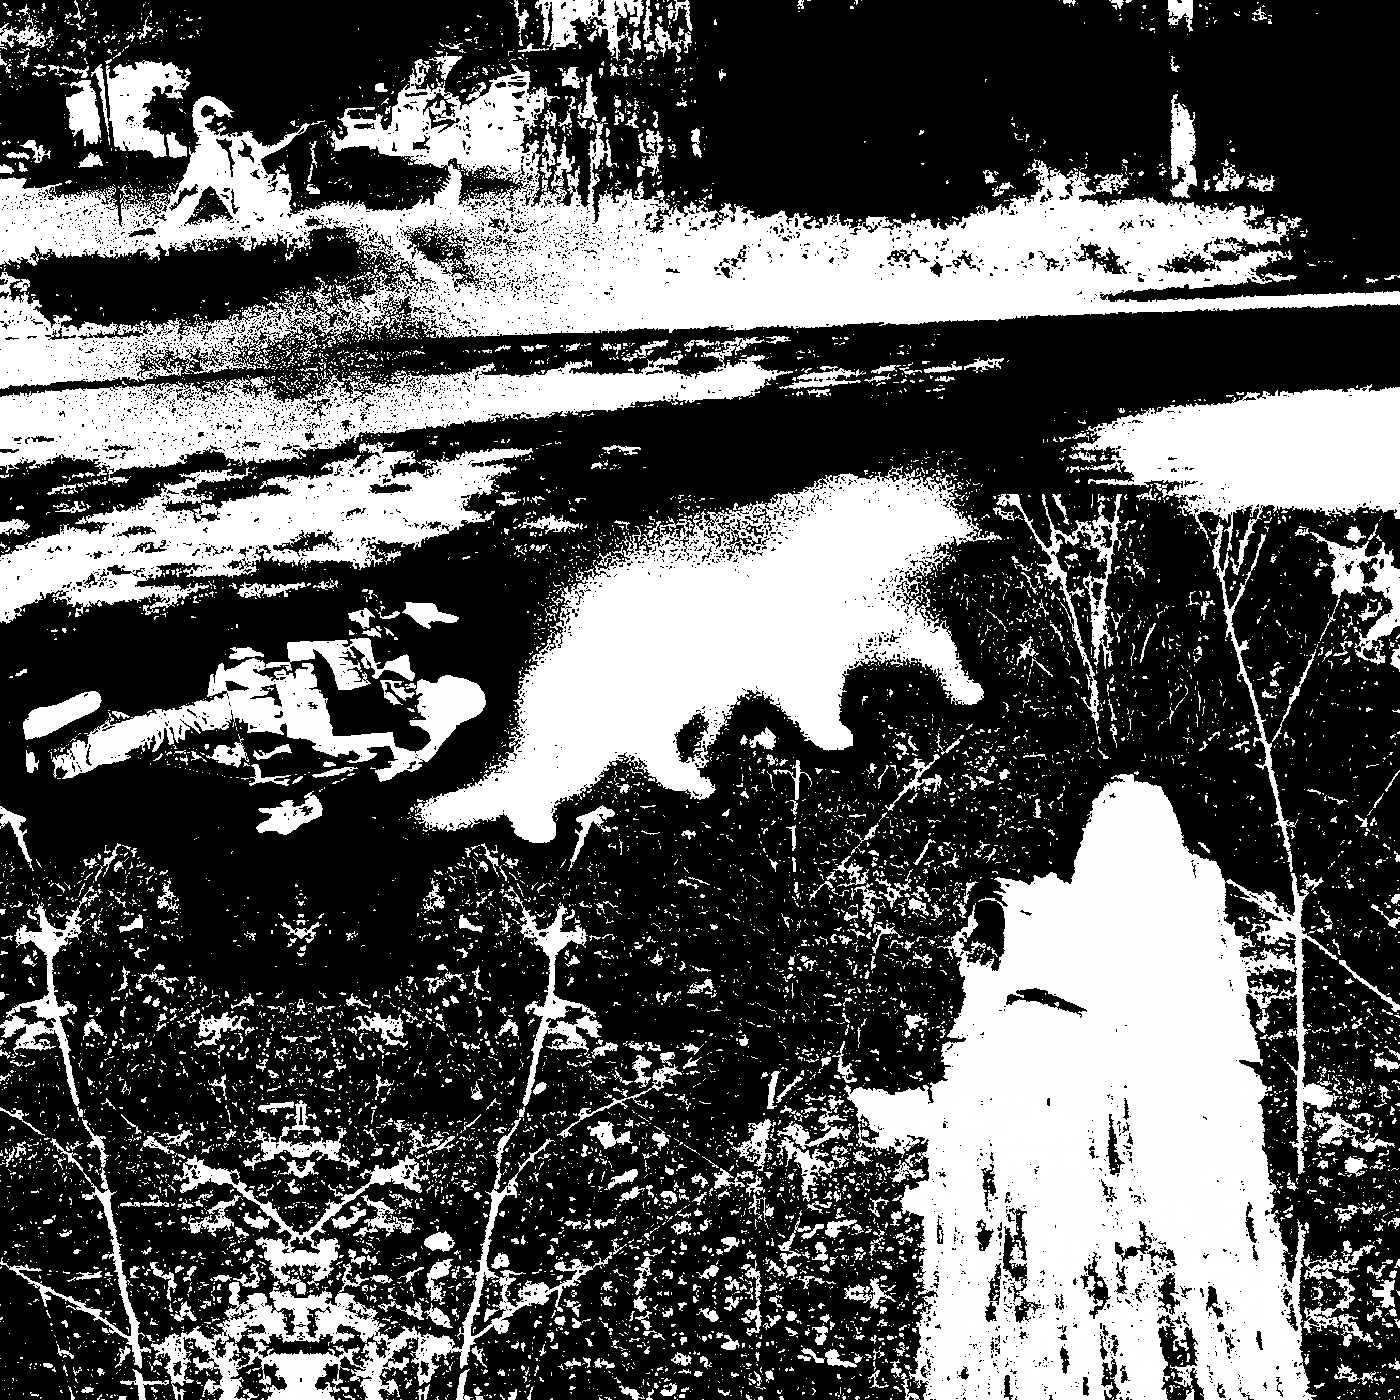
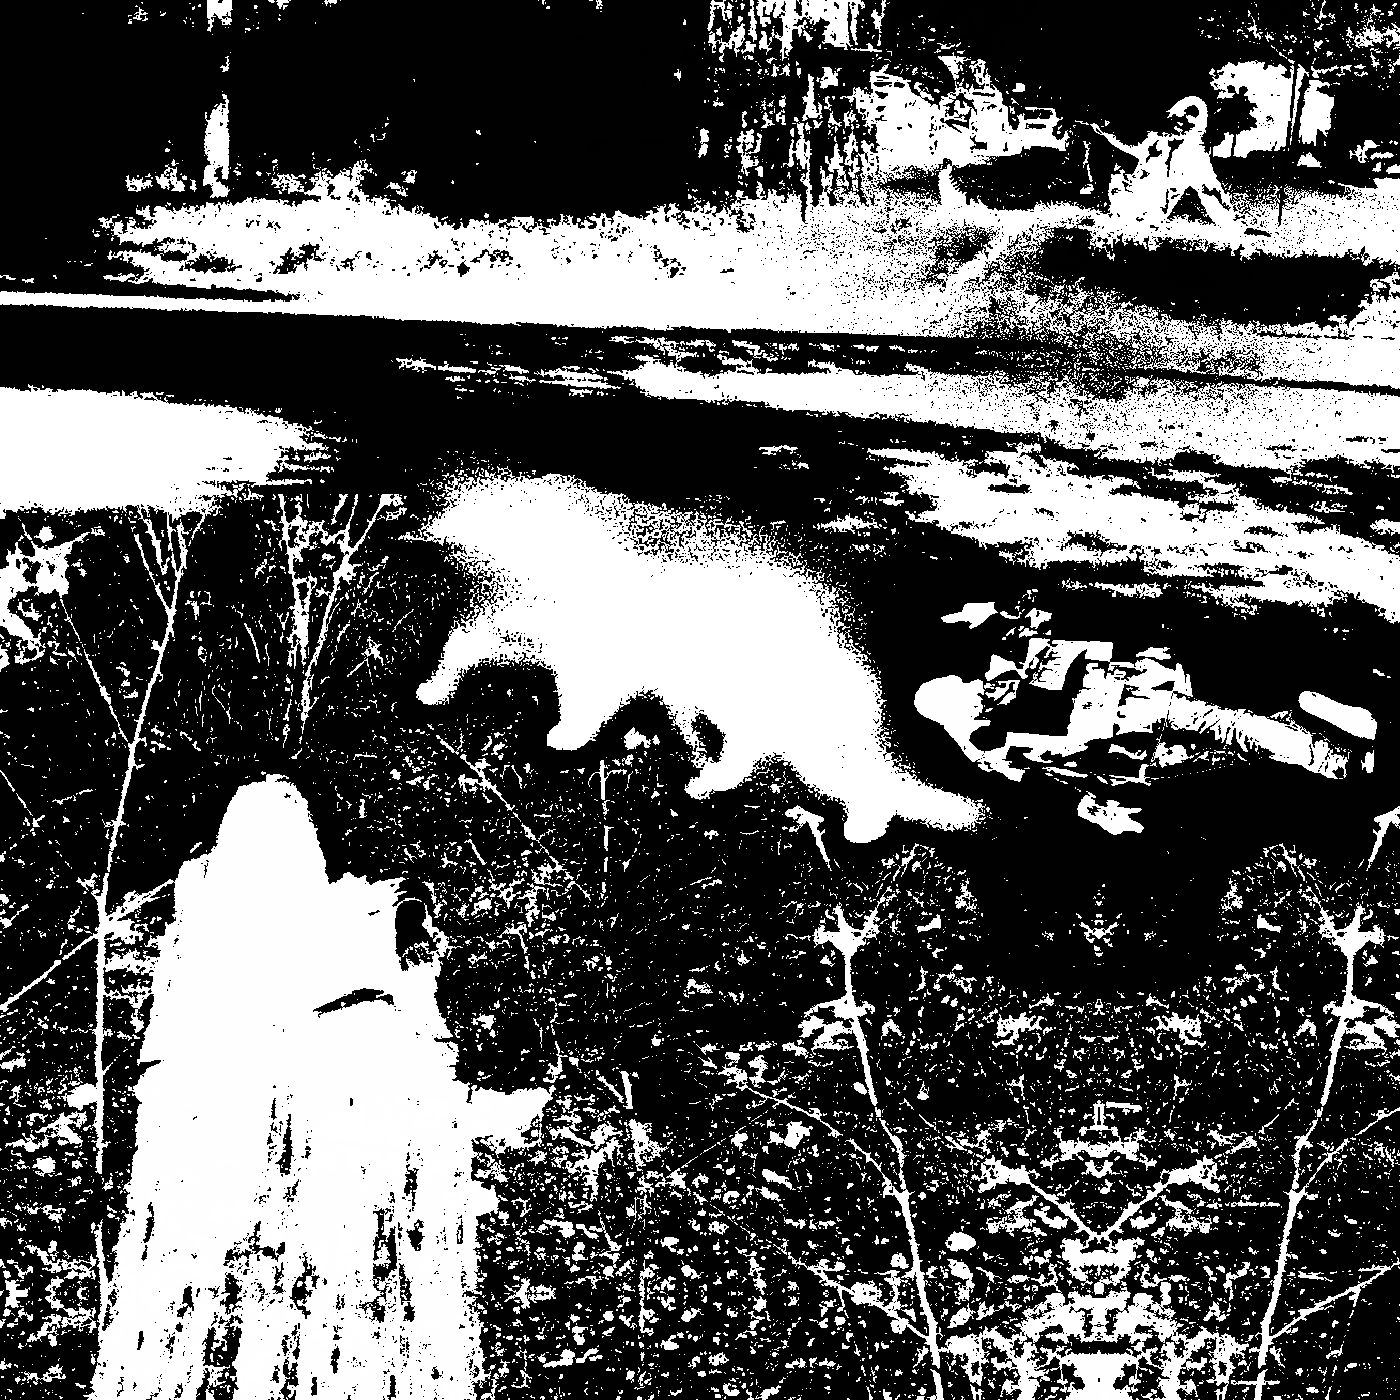
meowmeow

diff --git a/art.html b/art.html
@@ -33,25 +33,19 @@
                 height: 40vh;
                 width: 40vh;
                 float: left;
-                position: absolute;
+                position: relative;
                 margin-top: 5vh;
                 margin-left: 5vh;
             }
 
             .art {
                 pointer-events: all;
-                
+                transition: transform 0.4s cubic-bezier(0.455, 0.030, 0.515, 0.955);
             }
 
-            .art:hover {
-                -webkit-animation: flip-vertical-left 0.4s cubic-bezier(0.455, 0.030, 0.515, 0.955) forwards;
-                animation: flip-vertical-left 0.4s cubic-bezier(0.455, 0.030, 0.515, 0.955) forwards;
-                
-            }
-
-            .art:not(:hover) {
-                -webkit-animation: flip-vertical-right 0.4s cubic-bezier(0.455, 0.030, 0.515, 0.955) forwards;
-	            animation: flip-vertical-right 0.4s cubic-bezier(0.455, 0.030, 0.515, 0.955) forwards;
+            #showcase {
+                overflow-x: scroll;
+                display: flex;
             }
         
         
@@ -59,6 +53,9 @@
         </style>
     </head>
     <body>
+        <div id="overlay4" class="overlay" style="left:-95%; top:0; background-color: green;"></div>
+        <div id="overlay5" class="overlay" style="left:95%; top:0; background-color: green;"></div>
+
         <div id="overlay2" class="overlay" style="top:50%; background-color: #ffce34;"></div>
         <div id="overlay3" class="overlay" style="bottom:50%; background-color: #ffce34;"></div>
 
@@ -66,7 +63,8 @@
         <div id="overlay1" class="overlay" style="bottom:68.75%"></div>
 
         <div id="showcase" style="width: 100%; height: 50%; position: absolute; top: 25%;">
-            <div class="art" style="background-image: url(/art/compact-delusions.png);"></div>
+            <div class="art" id="cd" style="background-image: url(/art/compact-delusions.png);"></div>
+            <div class="art" id="onw" style="background-image: url(/art/onward-rapscallion.png);"></div>
         </div>
         
 
@@ -86,6 +84,32 @@
             }
 
             unVeil();
+
+
+            const compact = document.getElementById("cd");
+            const onw = document.getElementById("onw");
+
+            function flipUnflip(myElement, image1, image2) {
+                myElement.addEventListener('mouseover', function() {
+                    myElement.style.transform = "scaleX(-1)";
+                    setTimeout(function () {
+                        if (myElement.style.transform == "scaleX(-1)") {
+                            myElement.style.backgroundImage = image1;
+                        }
+                    }, 200);
+                });
+
+                myElement.addEventListener('mouseout', function() {
+                    myElement.style.transform = "scaleX(1)";
+                    setTimeout(function () {
+                        myElement.style.backgroundImage = image2;
+                    }, 200);
+                });
+            }
+
+            flipUnflip(cd, "url('/art/compact-delusions1.png')", "url('/art/compact-delusions.png')");
+            flipUnflip(onw, "url(/art/onward-rapscallion1.png)", "url(/art/onward-rapscallion.png)");
+            
         </script>
     </body>
 </html>
